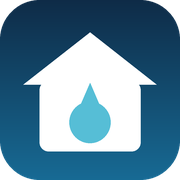
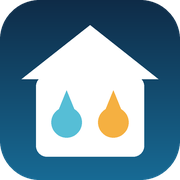
App-Symbol: Wassertropfen und Gasflamme im Haus
Das Symbol zeigt jetzt beides, was die App verteilt. Die Tropfenform wird
fuer beide Zeichen benutzt, einmal blau, einmal warmgelb.

Claude-Session: https://claude.ai/code/session_0174CpazwqzEgivMwHKXRC9s

Changed region(s): [[0.1111, 0.1389, 0.8889, 0.8889], [0.2778, 0.4722, 0.7222, 0.8056]]

diff --git a/werkzeuge/icon_erzeugen.py b/werkzeuge/icon_erzeugen.py
@@ -16,6 +16,7 @@ ZIEL = Path(__file__).resolve().parents[1] / "static"
 DUNKEL = (14, 43, 71)      # tiefes Blau
 HELL = (23, 106, 148)      # Petrol
 WASSER = (86, 190, 214)    # Tropfenblau
+FLAMME = (245, 176, 65)    # Warmes Gelb für die Gasflamme
 WEISS = (255, 255, 255)
 
 
@@ -41,21 +42,29 @@ def abgerundet(bild: Image.Image, radius_anteil: float = 0.22) -> Image.Image:
     return ergebnis
 
 
+def tropfenform(zeichnung: ImageDraw.ImageDraw, x: float, y: float,
+                radius: float, farbe: tuple) -> None:
+    """Ein Tropfen: Kreis mit aufgesetzter Spitze. Dient auch als Flamme."""
+    zeichnung.ellipse([(x - radius, y - radius), (x + radius, y + radius)], fill=farbe)
+    zeichnung.polygon([(x, y - radius * 2.1),
+                       (x - radius * 0.9, y + radius * 0.12),
+                       (x + radius * 0.9, y + radius * 0.12)], fill=farbe)
+
+
 def haus(zeichnung: ImageDraw.ImageDraw, g: int) -> None:
-    """Weißes Haus mit einem Wassertropfen in der Mitte."""
+    """Weißes Haus, darin ein Wassertropfen und eine Gasflamme.
+
+    Die beiden Zeichen stehen für das, was die App verteilt: Wasser und Gas.
+    """
     e = g / 100  # eine Einheit = 1 % der Kantenlänge
 
     # Dach
-    zeichnung.polygon([(50 * e, 18 * e), (87 * e, 47 * e), (13 * e, 47 * e)], fill=WEISS)
+    zeichnung.polygon([(50 * e, 14 * e), (88 * e, 44 * e), (12 * e, 44 * e)], fill=WEISS)
     # Wände
-    zeichnung.rounded_rectangle([(22 * e, 45 * e), (78 * e, 84 * e)],
-                                radius=int(5 * e), fill=WEISS)
-    # Tropfen: Kreis mit aufgesetzter Spitze
-    mitte_x, mitte_y, r = 50 * e, 68 * e, 11.5 * e
-    zeichnung.ellipse([(mitte_x - r, mitte_y - r), (mitte_x + r, mitte_y + r)], fill=WASSER)
-    zeichnung.polygon([(mitte_x, mitte_y - 22 * e),
-                       (mitte_x - r * 0.9, mitte_y + 2 * e),
-                       (mitte_x + r * 0.9, mitte_y + 2 * e)], fill=WASSER)
+    zeichnung.rounded_rectangle([(20 * e, 42 * e), (80 * e, 87 * e)],
+                                radius=int(6 * e), fill=WEISS)
+    tropfenform(zeichnung, 37 * e, 68 * e, 8.5 * e, WASSER)
+    tropfenform(zeichnung, 63 * e, 68 * e, 8.5 * e, FLAMME)
 
 
 def erzeuge(groesse: int) -> Image.Image:
